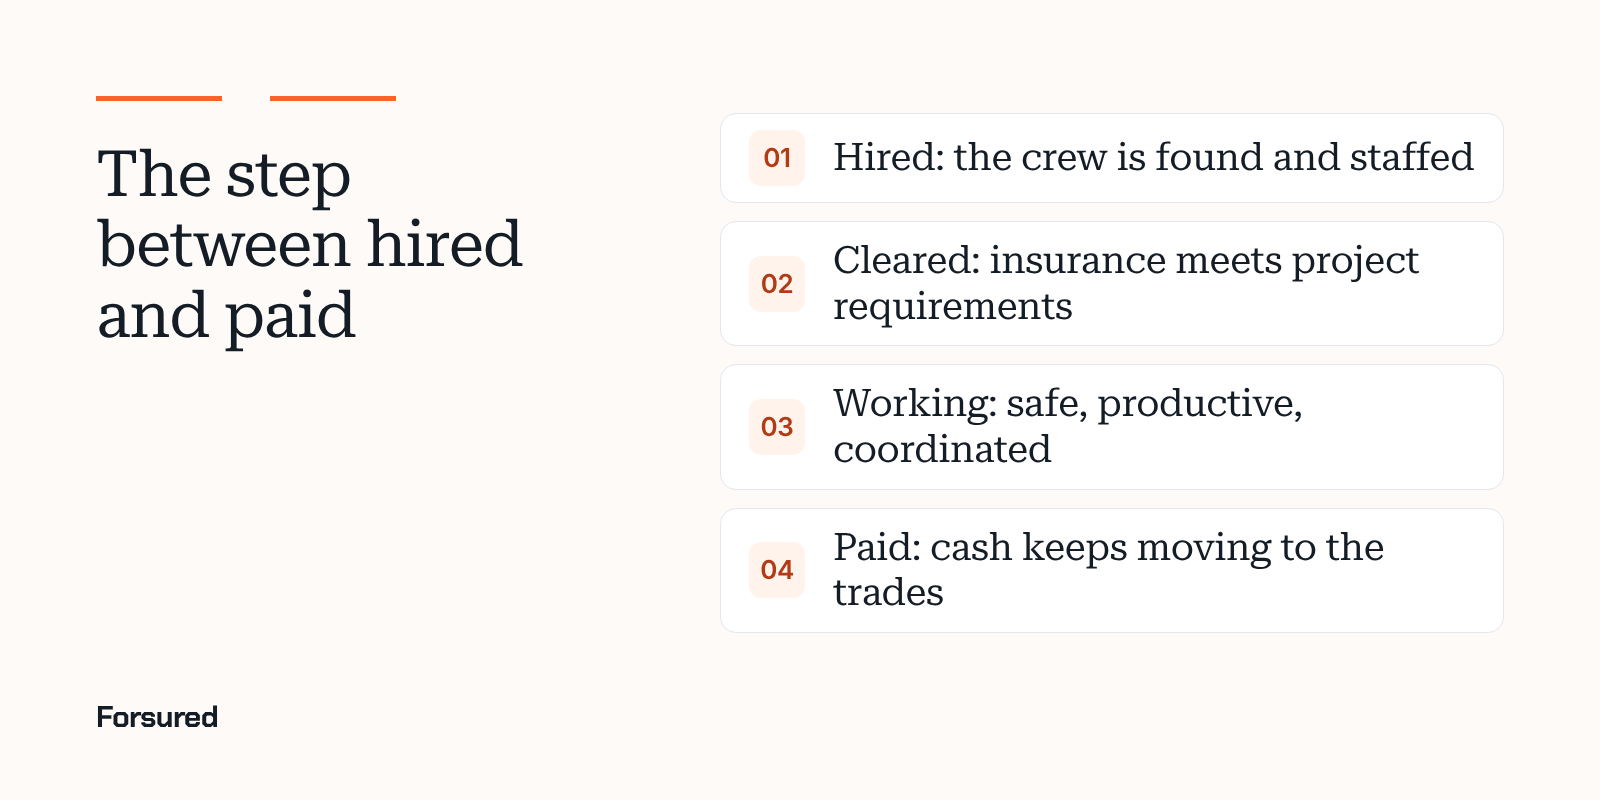
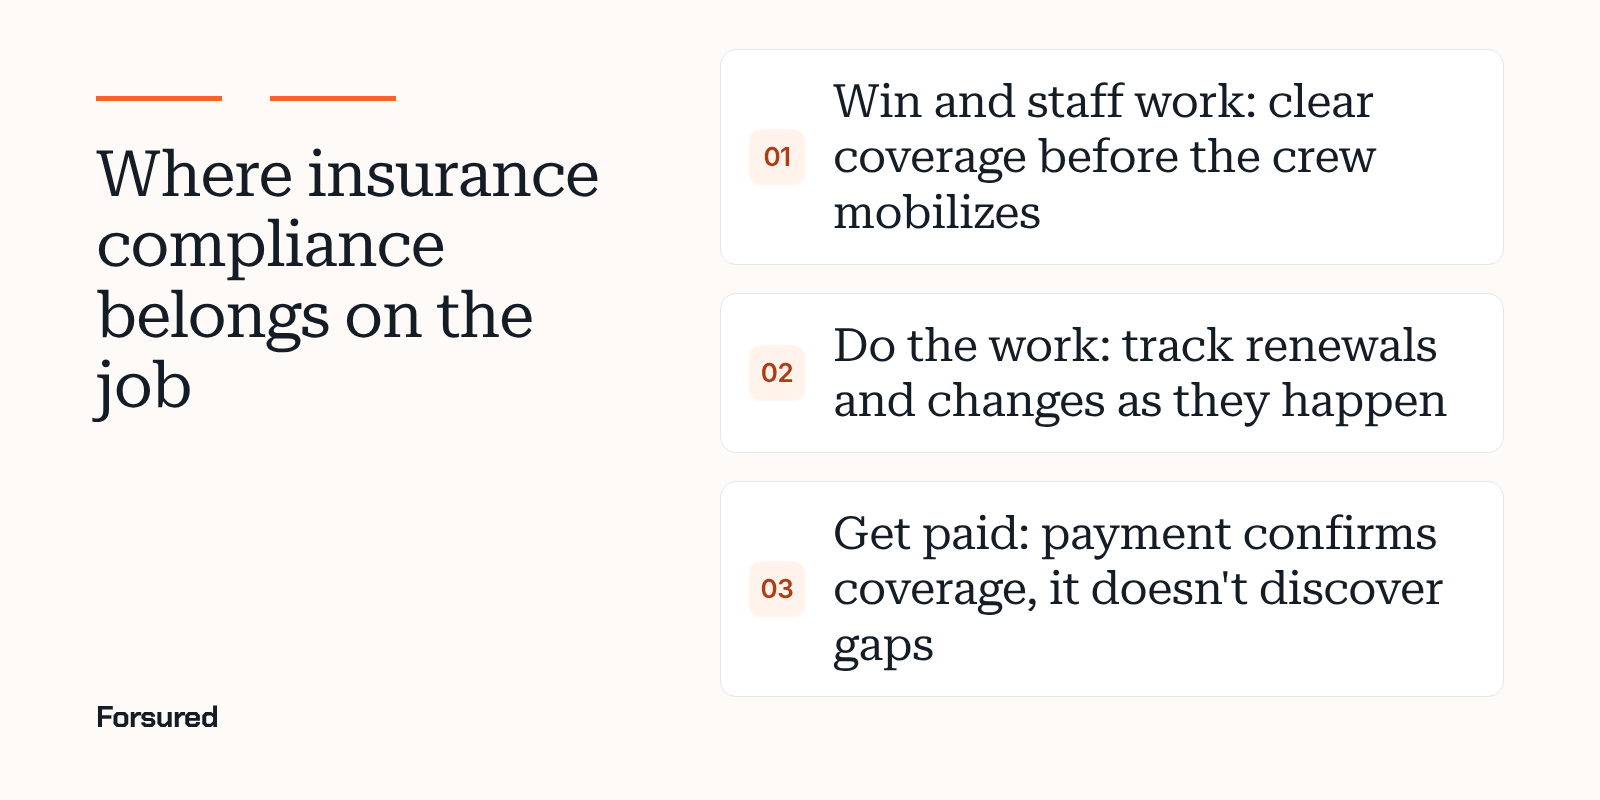
Blog draft: rewrite around the actual map (insurance compliance filed under getting paid)
Claude-Session: https://claude.ai/code/session_0141mpKkVCf9qRRB1hvH85AU

diff --git a/content/blog/trades-tech-stack-insurance-compliance.md b/content/blog/trades-tech-stack-insurance-compliance.md
@@ -1,20 +1,19 @@
 ---
 {
-  "title": "The trades tech stack needs a layer for getting cleared to work",
-  "seoTitle": "The Trades Tech Stack and Insurance Compliance | Forsured",
-  "description": "Suffolk Technologies mapped a better tech stack for the trades, from hiring to getting paid. One step sits between those layers: clearing insurance compliance.",
-  "dek": "Suffolk Technologies just published a sharp map of the tools built around how trade work actually happens. It covers hiring through payment. The step in between, proving a contractor meets the project's insurance requirements, deserves its own layer.",
+  "title": "Insurance compliance is on the trades tech map. It's filed under getting paid.",
+  "seoTitle": "Insurance Compliance in the Trades Tech Stack | Forsured",
+  "description": "Suffolk Technologies' new trades tech map puts insurance compliance under getting paid. Why it belongs at the start of the job, and why compliance isn't coverage.",
+  "dek": "Suffolk Technologies just mapped the tools reshaping how trade contractors win, run, do and get paid for work. Insurance compliance made the map, in the last column. Where it sits says a lot about how the industry still treats it.",
   "date": "2026-11-09T07:00:00-05:00",
   "draft": true,
   "category": "Industry news",
   "hero": {
     "type": "list",
-    "title": "The step between hired and paid",
+    "title": "Where insurance compliance belongs on the job",
     "items": [
-      "Hired: the crew is found and staffed",
-      "Cleared: insurance meets project requirements",
-      "Working: safe, productive, coordinated",
-      "Paid: cash keeps moving to the trades"
+      "Win and staff work: clear coverage before the crew mobilizes",
+      "Do the work: track renewals and changes as they happen",
+      "Get paid: payment confirms coverage, it doesn't discover gaps"
     ]
   },
   "tags": [
@@ -26,23 +25,23 @@
     "Suffolk Technologies"
   ],
   "takeaways": [
-    "Suffolk Technologies' November 2026 piece maps trade-focused tools across five layers: hiring, labor and operations, safety and productivity, project team collaboration, and payment and cash flow.",
-    "Its core point holds: the best tools are built around how field work actually happens, and too many disconnected back-office tools become unmanageable.",
-    "One step touches every layer and isn't on the map: confirming each contractor's insurance meets the project requirements before work starts and while it continues.",
-    "That check is still mostly PDFs, email and spreadsheets. Treating it as a connected layer, not a filing task, is the next big operational gain for the trades."
+    "Suffolk Technologies' November 2026 map groups emerging tools for trade contractors into five stages: win and staff work, run the business, plan and coordinate work, do the work, and get paid and manage cash.",
+    "Insurance compliance is on it, filed under payment compliance in the get paid stage, next to pay apps and lien waivers.",
+    "That placement matches how much of the industry runs it: as a gate on payment. By the time a payment is held, the crew has already been working with the gap.",
+    "Two shifts would make it a real operational gain: check coverage when a contractor is staffed onto the job and keep checking during the work, and test the coverage itself against the project requirements, not just the certificate's boxes."
   ],
   "faq": [
     {
-      "q": "What is the Suffolk Technologies trades tech stack map?",
-      "a": "It's a market map in Suffolk Technologies' article \"A Better Tech Stack for the Trades\" (November 2026). It groups notable tools for trade contractors into five layers: finding and hiring skilled labor, managing labor and operations, making work safer and more productive, working with the entire project team, and getting paid and managing cash flow."
+      "q": "What is the Suffolk Technologies trades tech map?",
+      "a": "It's the market map in Suffolk Technologies' article \"A Better Tech Stack for the Trades\" (November 2026). Titled \"Enabling the next phase of jobsite execution,\" it sorts emerging tools for trade contractors into five stages, from winning and staffing work to getting paid and managing cash."
     },
     {
-      "q": "Isn't workforce compliance already on the map?",
-      "a": "Workforce compliance is, in the sense of payroll, certifications and prevailing wage rules. Insurance compliance is a different check. It asks whether each contractor's certificate, endorsements and limits meet the project requirements, and whether they stay current for the life of the job."
+      "q": "Where does insurance compliance appear on the map?",
+      "a": "In the last stage, get paid and manage cash, under a category called payment compliance. Tools for certificate tracking and contractor prequalification sit there alongside lien waiver and draw management tools."
     },
     {
-      "q": "Why does insurance compliance belong on a labor map?",
-      "a": "Because it gates the labor. A contractor that hasn't cleared the project's insurance requirements usually can't mobilize, and lapsed coverage can stall work and payments mid-job. It sits between getting hired and getting paid, and it touches safety, collaboration and cash flow along the way."
+      "q": "What's the difference between insurance compliance and coverage?",
+      "a": "Compliance asks whether the paperwork matches a checklist: is there a certificate, is the box checked, are the limits listed. Coverage asks whether the policies and endorsements would actually respond to a claim on this project. A certificate can pass the first test and fail the second."
     }
   ],
   "sources": [
@@ -55,57 +54,55 @@
   ]
 }
 ---
-Suffolk Technologies just published one of the more useful pieces of construction tech writing this year: [A Better Tech Stack for the Trades](https://suffolktech.com/a-better-tech-stack-for-the-trades/). It maps the tools built for the people who actually do the work, from hiring through getting paid. We agree with its thesis. We also think one layer is missing, and it sits right in the middle: getting a contractor cleared to work on the project.
+Suffolk Technologies just published one of the more useful pieces of construction tech writing this year: [A Better Tech Stack for the Trades](https://suffolktech.com/a-better-tech-stack-for-the-trades/). Its market map sorts the tools built for trade contractors into five stages of the job. Insurance compliance is on it, in the last column, under getting paid. We think that's an honest picture of how the industry runs compliance today, and a clear sign of where the next gain is.
 
 ## What Suffolk Technologies mapped
 
 The piece starts with the labor problem. Suffolk Technologies cites estimates of a skilled-labor gap of up to 600,000 U.S. workers, and notes that for every five people leaving the industry, only two enter it. Its answer is technology "designed around the way work actually happens" in the field.
 
-The map groups that technology into five layers:
+The map, titled "Enabling the next phase of jobsite execution," follows a trade contractor through five stages:
 
-| Layer | What it covers |
+| Stage | What it covers |
 | --- | --- |
-| Finding and hiring skilled labor | Matching trades workers to jobs and keeping them employed |
-| Managing labor and operations | Payroll, scheduling, certifications, prevailing wage and job costs |
-| Making work safer and more productive | Safety programs, site monitoring, progress capture and robotics |
-| Working with the entire project team | Change orders, field knowledge and coordination |
-| Getting paid and managing cash flow | Earlier payment and working capital for the trades |
+| Win and staff work | Bidding and estimating, recruiting and training, safety and onboarding |
+| Run the business | HR, payroll and crews, accounting, sales, financial intelligence |
+| Plan and coordinate work | Project intelligence, field collaboration, materials and procurement |
+| Do the work | Field tools and diagnostics, automation and robotics |
+| Get paid and manage cash | Pay apps and billing, payment compliance, working capital |
 
-Two arguments stand out. First, tech sprawl is real. The article says "the explosion of back-office tools is unmanageable in the long run," and praises tools that pull those jobs into one system. Second, the payoff is structural: modern tools let firms "move away from linear revenue to headcount growth." That's the right frame. The goal isn't more software. It's more work done per person, with less friction.
+Two arguments stand out. First, tech sprawl is real. The article says "the explosion of back-office tools is unmanageable in the long run." Second, the payoff is structural: modern tools let firms "move away from linear revenue to headcount growth." That's the right frame. The goal isn't more software. It's more work done per person, with less friction.
 
-## The step between hired and paid
+## Where insurance compliance landed
 
-Follow one trade contractor through the map. They find the crew. They run payroll and certifications. They work safely and coordinate with the project team. They get paid.
+On the map, tools for tracking certificates and prequalifying contractors sit in the payment compliance box, next to lien waivers and draw management. In other words, compliance is grouped with the paperwork that releases money.
 
-Something has to happen before the crew mobilizes, and keep happening until the job closes out. The contractor has to prove its insurance meets the project requirements. That means general liability limits, additional insured endorsements for ongoing and completed operations, waiver of subrogation, primary and noncontributory wording, umbrella limits and workers' comp. Then it has to stay that way through every renewal and every policy change.
+That's accurate. On a lot of projects, the moment anyone looks hard at a contractor COI is when a payment is about to go out. If the certificate has lapsed or a requirement is missing, the payment waits until it's fixed.
 
-The article does mention "workforce compliance," in the sense of payroll, certifications and prevailing wage. Insurance compliance is a different check, with a different failure mode. A missing certification shows up on a form. A missing endorsement usually shows up after a claim.
+The problem is timing. By the time a payment is held, the crew has already been on site, sometimes for weeks, working with the gap. If someone was hurt or something was damaged in that window, holding the check doesn't change who pays for the claim.
 
-## Why it belongs on the map
+## Move it to the start of the job
 
-Insurance compliance isn't a side process. It touches every layer Suffolk Technologies drew:
+The map's first stage, win and staff work, already includes safety and onboarding. That's where insurance compliance belongs too. A contractor should prove its insurance meets the project requirements when it's staffed onto the job, before it mobilizes, the same way crews complete orientation before they start.
 
-- **Hiring.** A newly hired contractor often can't start until it clears the project's insurance requirements. Slow reviews mean idle crews.
-- **Operations.** Workers' comp and payroll are tied together. Crew changes can change what coverage needs to show.
-- **Safety.** Insurance is the financial side of safety. When someone gets hurt, the chain of coverage decides who pays, and a gap there can cost more than the incident.
-- **The project team.** Certificates and endorsements move between contractors, brokers, GCs and owners. Today that's mostly PDFs in email threads.
-- **Cash flow.** On many projects, lapsed or noncompliant coverage can hold up a contractor's payment. A tool that speeds up payment works best when compliance is already clean.
+Then it should keep running in the do the work stage. Policies renew, change and cancel mid-project. A check that happens once at onboarding and again at each pay app misses everything in between.
 
-The tooling for this step still looks like the back office the article warns about: a certificate in an inbox, a spreadsheet of expiration dates, and a person reading endorsements line by line. As we've written before, [compliance isn't coverage](https://forsured.ai/blog/compliance-isnt-coverage/). A certificate can check every box on a tracking sheet and still leave the project exposed.
+Placed that way, payment becomes a confirmation, not a discovery. The pay app goes out on time because compliance was already clean.
 
-## What a compliance layer would do
+## From compliance to coverage
 
-If insurance compliance sat on the map as its own layer, it would do the same things the best tools on the map already do for their part of the job:
+The second shift matters more. Most compliance work today confirms the paperwork matches a checklist: a certificate is on file, the additional insured box is checked, the limits are listed. As we've written before, [compliance isn't coverage](https://forsured.ai/blog/compliance-isnt-coverage/). A certificate can check every box and still leave the project exposed.
 
-1. Read the contractor COI and the endorsements against the project requirements, not just against a checklist.
-2. Flag the specific gap in plain language, so the contractor and its broker can fix it fast.
-3. Track renewals and changes for the life of the project, not just at onboarding.
-4. Connect to the layers around it, so onboarding, field work and payment all see the same status.
+Coverage questions live in the policies and endorsements, not on the certificate:
 
-That fits the article's own test. It's built around how the work happens, and it removes a pile of manual back-office work instead of adding another tool.
+- Does the additional insured endorsement cover completed operations, or only ongoing work?
+- Is the coverage primary and noncontributory, as the project requirements say?
+- Is waiver of subrogation actually endorsed, or just typed on the form?
+- Do the umbrella limits sit over the right underlying policies?
+
+Those answers decide who pays when something goes wrong. They're also the slowest part of the job to check by hand, which is exactly the kind of back-office work the article says the trades need to shed.
 
 ## The bigger point
 
-Suffolk Technologies is right that the trades deserve a better tech stack, and right that it should be built around the field. The firms that grow without adding headcount will be the ones that connect those layers. Getting cleared to work is one of the connections. It's where risk either gets caught or gets passed down the chain.
+Suffolk Technologies is right that the trades deserve a better tech stack, built around the field. Its map already shows that insurance compliance is part of that stack. The next step is moving it from the end of the job to the start, and from checking paperwork to checking coverage.
 
-That layer is what we're building at Forsured. If you want to see what it looks like on your own paperwork, send us one project's requirements and a contractor COI or two at hello@forsured.ai, and we'll run a free check.
+That's the layer we're building at Forsured. If you want to see what it looks like on your own paperwork, send us one project's requirements and a contractor COI or two at hello@forsured.ai, and we'll run a free check.
